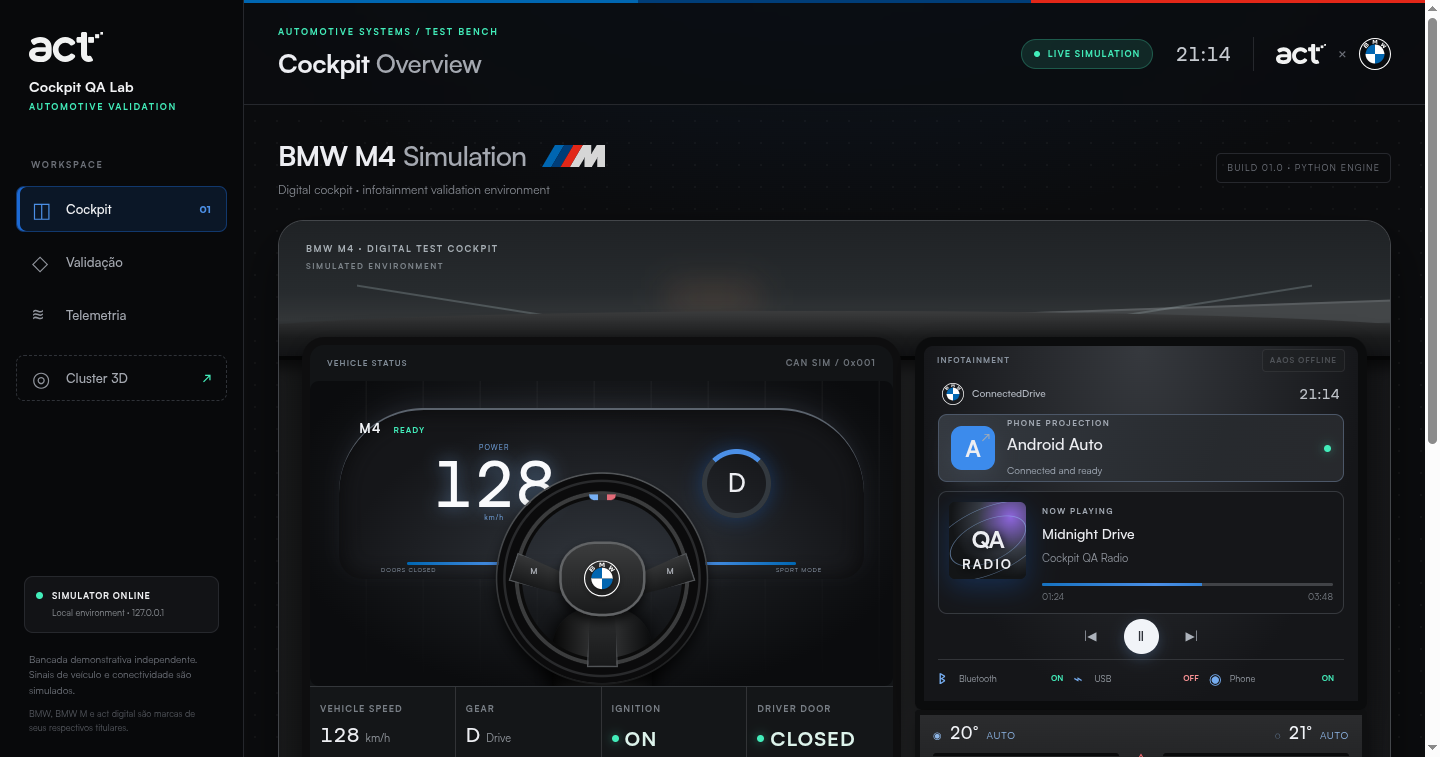
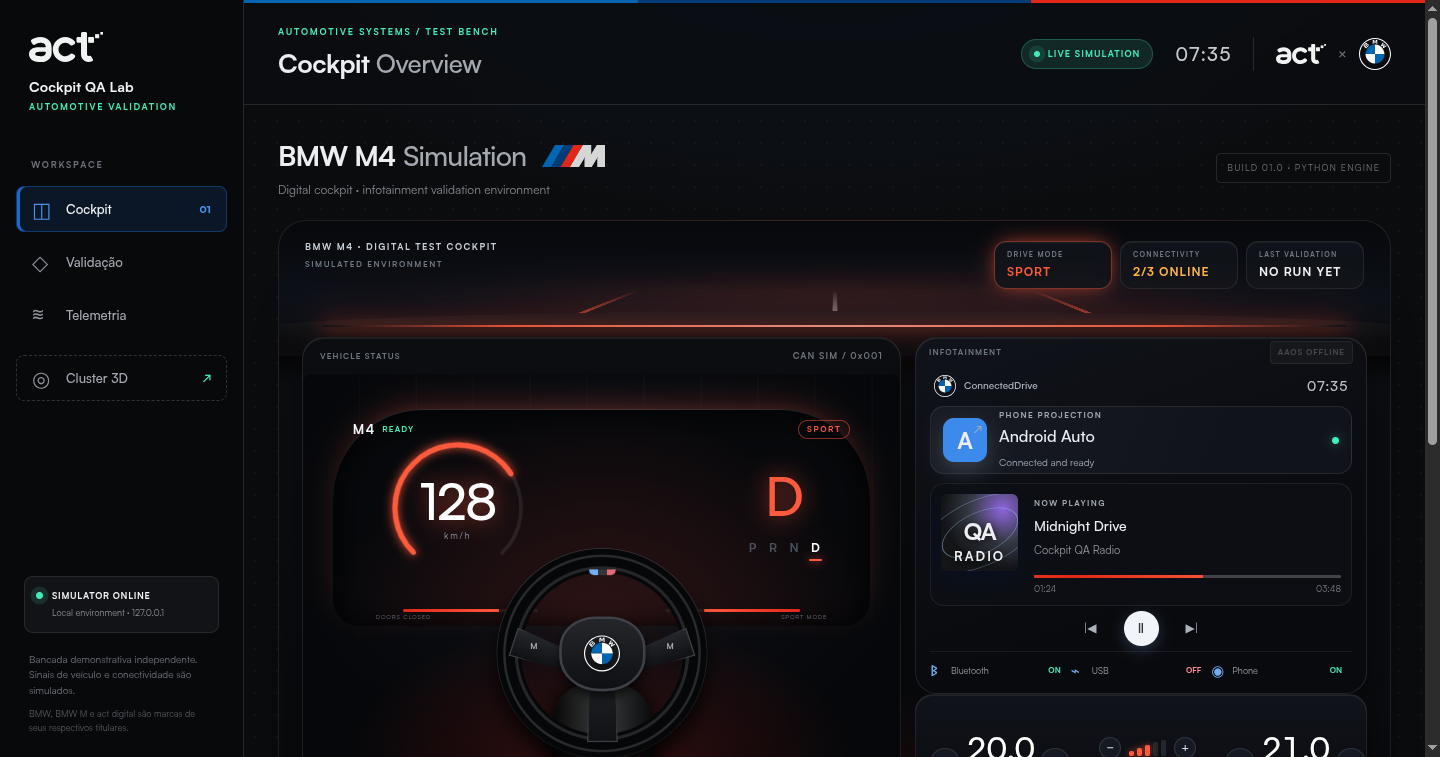
feat(web): curved-display cockpit with drive bar, speed arc, P R N D, climate and Comfort/Sport theme

diff --git a/web/cockpit.css b/web/cockpit.css
@@ -1,0 +1,154 @@
+/* Cockpit finish, BMW Curved Display inspired. Loaded last.
+   One accent drives the whole cabin: BMW blue in Comfort, M red in Sport (body.mode-sport,
+   set by app.js at 120 km/h, same thresholds as the Unity cluster). */
+
+@property --accent{syntax:'<color>';inherits:true;initial-value:#4b8fe6}
+@property --accent-deep{syntax:'<color>';inherits:true;initial-value:#1c69d4}
+
+body{--accent:#4b8fe6;--accent-deep:#1c69d4;transition:--accent .8s var(--ease-out),--accent-deep .8s var(--ease-out)}
+body.mode-sport{--accent:#ff5a3c;--accent-deep:#e22718}
+
+/* ---------- Cabin shell ---------- */
+.dashboard{border:1px solid #ffffff14;border-radius:28px 28px 18px 18px;
+  background:
+    radial-gradient(ellipse 70% 40% at 50% 100%,color-mix(in srgb,var(--accent-deep) 16%,transparent),transparent 70%),
+    linear-gradient(180deg,#0c0e12 0%,#08090c 100%);
+  box-shadow:inset 0 1px 0 #ffffff12,0 40px 80px -40px #000}
+.dashboard:before{background:linear-gradient(#16181d,#0a0b0e 70%);box-shadow:0 14px 20px #000000b0}
+.dashboard:after{background:linear-gradient(#111317,#060709);border-top-color:#ffffff10}
+
+/* Ambient light: a thin glowing line along the dash, like BMW's interior light bar. */
+.ambient-strip{position:absolute;z-index:0;left:4%;right:4%;top:104px;height:2px;border-radius:2px;pointer-events:none;
+  background:linear-gradient(90deg,transparent,var(--accent) 18%,color-mix(in srgb,var(--accent) 60%,#fff) 50%,var(--accent) 82%,transparent);
+  box-shadow:0 0 18px 2px color-mix(in srgb,var(--accent) 55%,transparent),0 0 46px 6px color-mix(in srgb,var(--accent-deep) 30%,transparent);
+  opacity:.9}
+
+/* ---------- Windshield: horizon, live road and the drive summary ---------- */
+.windshield{background:linear-gradient(180deg,#07080b 0%,#0c1018 55%,#0a0c10 100%);border-bottom:0}
+.windshield:before,.windshield:after{display:none}
+.drive-road{position:absolute;inset:0;overflow:hidden}
+.drive-horizon{position:absolute;left:10%;right:10%;top:52px;height:60px;border-radius:50%;
+  background:radial-gradient(ellipse at 50% 50%,color-mix(in srgb,var(--accent) 45%,transparent),transparent 70%);filter:blur(14px);opacity:.55}
+.drive-lanes{position:absolute;left:50%;top:70px;width:560px;height:220px;transform:translateX(-50%) perspective(180px) rotateX(66deg);transform-origin:50% 0;
+  -webkit-mask-image:linear-gradient(transparent,#000 35%);mask-image:linear-gradient(transparent,#000 35%);
+  background:
+    linear-gradient(90deg,transparent calc(50% - 2px),#ffffffb0 calc(50% - 2px) calc(50% + 2px),transparent calc(50% + 2px)) 0 var(--road,0)/100% 40px,
+    linear-gradient(90deg,transparent 14%,var(--accent) 14% 15%,transparent 15% 85%,var(--accent) 85% 86%,transparent 86%),
+    linear-gradient(90deg,transparent 14%,#0f131b 14% 86%,transparent 86%)}
+.drive-lanes{background-repeat:repeat-y,no-repeat,no-repeat}
+
+.drive-bar{position:absolute;left:0;right:0;top:0;height:86px;display:flex;align-items:flex-start;justify-content:space-between;gap:16px;padding:20px 26px 0}
+.windshield-label{position:static;color:#c9d0d8}
+.windshield-label span{color:#6f7782}
+.drive-chips{display:flex;gap:8px}
+.drive-chip{min-width:118px;padding:8px 12px;border:1px solid #ffffff14;border-radius:12px;
+  background:color-mix(in srgb,#11141a 78%,transparent);backdrop-filter:blur(10px);-webkit-backdrop-filter:blur(10px);box-shadow:inset 0 1px 0 #ffffff0d}
+.drive-chip small{display:block;font-size:7px;font-weight:700;letter-spacing:.18em;color:#6f7782}
+.drive-chip strong{display:block;margin-top:4px;font:700 12px 'Satoshi',sans-serif;letter-spacing:.08em;color:var(--text-1);transition:color .4s}
+.drive-chip-mode{border-color:color-mix(in srgb,var(--accent) 45%,transparent);box-shadow:inset 0 1px 0 #ffffff0d,0 0 22px -6px var(--accent)}
+.drive-chip-mode strong{color:var(--accent)}
+[data-tone="ok"]{color:var(--act-mint)!important}
+[data-tone="warn"]{color:#ffb547!important}
+[data-tone="fault"]{color:#ff5a4a!important}
+[data-tone="run"]{color:var(--bmw-blue-bright)!important}
+
+/* ---------- Displays: dark glass ---------- */
+.vehicle-panel,.infotainment-panel{border:1px solid #ffffff17;box-shadow:inset 0 1px 0 #ffffff14,0 18px 40px -12px #000000d0}
+.vehicle-panel{background:linear-gradient(180deg,#0b0d11,#07080b);border-radius:22px}
+.infotainment-panel{background:linear-gradient(160deg,#10131a 0%,#090a0e 70%);border-radius:22px}
+.vehicle-panel .panel-top,.infotainment-panel .panel-top{color:#6f7782}
+.vehicle-hero{background:
+    radial-gradient(ellipse 60% 55% at 50% 100%,color-mix(in srgb,var(--accent-deep) 22%,transparent),transparent 70%),
+    radial-gradient(ellipse 55% 62% at 50% 40%,#151a22 0%,#090b0f 60%,#06070a 100%)}
+.vehicle-hero:before{opacity:.12}
+
+/* ---------- Instrument cluster ---------- */
+.driver-cluster{border-top:1px solid #ffffff1f;border-radius:90px 90px 26px 26px;
+  background:radial-gradient(ellipse at 50% 110%,color-mix(in srgb,var(--accent-deep) 18%,#0d1015),#07080b 72%);
+  box-shadow:inset 0 0 30px #000,0 -10px 30px -12px color-mix(in srgb,var(--accent) 40%,transparent)}
+.cluster-head{display:flex;align-items:center}
+.cluster-mode{margin-left:auto;font:700 8px 'Satoshi',sans-serif;font-style:normal;letter-spacing:.2em;color:var(--accent);
+  padding:3px 8px;border:1px solid color-mix(in srgb,var(--accent) 50%,transparent);border-radius:20px}
+.cluster-readouts{justify-content:space-between;padding:0 6%;margin-top:-6px}
+
+.speedo{position:relative;width:150px;height:150px}
+.speed-arc{position:absolute;inset:0;width:100%;height:100%;transform:rotate(135deg);overflow:visible}
+.speed-arc circle{fill:none;stroke-linecap:round}
+.arc-track{stroke:#ffffff14;stroke-width:5;stroke-dasharray:395.8 527.8}
+.arc-fill{stroke:var(--accent);stroke-width:7;stroke-dasharray:calc(var(--speed) * 395.8px) 527.8px;
+  filter:drop-shadow(0 0 6px var(--accent))}
+.speedo-value{position:absolute;inset:0;display:flex;flex-direction:column;align-items:center;justify-content:center}
+.speedo-value strong{font:500 52px 'Satoshi',sans-serif!important;line-height:1!important;letter-spacing:-.03em;color:#fff!important;
+  text-shadow:0 0 22px color-mix(in srgb,var(--accent) 60%,transparent)!important}
+.speedo-value small{margin-top:4px;font-size:9px!important;letter-spacing:.2em!important;color:#8a93a3!important}
+
+.gearbox{display:flex;flex-direction:column;align-items:center;gap:8px}
+.cluster-gear{width:auto!important;height:auto!important;border:0!important;box-shadow:none!important;border-radius:0;
+  font:600 54px 'Satoshi',sans-serif!important;line-height:1;color:var(--accent)!important;
+  text-shadow:0 0 22px color-mix(in srgb,var(--accent) 70%,transparent)}
+.prnd{display:flex;gap:12px}
+.prnd span{font:700 12px 'Satoshi',sans-serif;letter-spacing:.04em;color:#4a505b;position:relative;transition:color .3s}
+.prnd span.active{color:#fff}
+.prnd span.active:after{content:'';position:absolute;left:-2px;right:-2px;bottom:-5px;height:2px;border-radius:2px;background:var(--accent);box-shadow:0 0 8px var(--accent)}
+.cluster-bars span{background:linear-gradient(90deg,var(--accent-deep),var(--accent)) 0/calc(var(--speed)*100%) 100% no-repeat,#ffffff10!important}
+.cluster-foot{color:#5f6672}
+.cluster-head span{color:var(--act-mint)}
+
+/* Steering wheel: darker, with the M-coloured top marker kept. */
+.steering-wheel{border-color:#060708;box-shadow:inset 0 0 0 4px #24262a,inset 0 0 0 8px #060708,0 16px 26px #000000e0,0 0 0 1px #3a3d42}
+.wheel-hub{background:linear-gradient(#24262b,#0f1013);border-color:#3e4148}
+.wheel-spoke{background:linear-gradient(#24262b,#101114);border-color:#3a3d42}
+
+/* ---------- Status row under the cluster ---------- */
+.vehicle-metrics{background:#08090c!important;border-top:1px solid #ffffff10!important}
+.vehicle-metrics .metric{border-color:#ffffff0d!important}
+.metric small{color:#5f6672}
+
+/* ---------- Infotainment cards ---------- */
+.projection-card{border-color:#ffffff17;border-radius:14px;background:linear-gradient(110deg,#171b23,#10131a 70%)}
+.music-card{border-color:#ffffff12;border-radius:14px;background:#0c0e13}
+.connection-row{border-top-color:#ffffff12}
+
+/* ---------- Climate console ---------- */
+.dashboard{grid-template-rows:auto 158px}
+.center-console{display:flex;flex-direction:column;justify-content:space-between;padding:12px 14px 10px;border:1px solid #ffffff14;border-radius:18px;
+  background:linear-gradient(180deg,#10131a,#08090c);box-shadow:inset 0 1px 0 #ffffff12,0 14px 30px -10px #000}
+.climate{display:grid;grid-template-columns:1fr auto 1fr;align-items:center;gap:10px}
+.zone{display:flex;align-items:center;justify-content:space-between;gap:6px}
+.zone-temp{text-align:center;line-height:1}
+.zone-temp strong{display:inline-block;font:500 32px 'Satoshi',sans-serif;letter-spacing:-.03em;color:#fff;font-variant-numeric:tabular-nums}
+.zone-temp sup{font-size:11px;color:#8a93a3;margin-left:2px;vertical-align:top}
+.zone-temp small{display:block;margin-top:6px;font-size:7px;font-weight:700;letter-spacing:.2em;color:#5f6672}
+.clim-btn{width:30px;height:30px;flex:none;border-radius:50%;border:1px solid #ffffff1c;background:#151922;color:#d6dbe3;font:500 16px 'Satoshi',sans-serif;line-height:1;cursor:pointer;
+  transition:background .2s,border-color .2s,transform .15s var(--ease-out),box-shadow .2s}
+.clim-btn:hover{border-color:var(--accent);box-shadow:0 0 12px -2px var(--accent)}
+.clim-btn:active{transform:scale(.92)}
+.clim-btn.small{width:22px;height:22px;font-size:12px}
+.climate-center{display:flex;flex-direction:column;align-items:center;gap:9px}
+.fan{display:flex;align-items:center;gap:8px}
+.fan-bars{display:flex;align-items:flex-end;gap:3px;height:16px}
+.fan-bars i{width:5px;border-radius:2px;background:#ffffff18;transition:background .25s,box-shadow .25s}
+.fan-bars i:nth-child(1){height:5px}.fan-bars i:nth-child(2){height:8px}.fan-bars i:nth-child(3){height:11px}.fan-bars i:nth-child(4){height:14px}.fan-bars i:nth-child(5){height:16px}
+.fan-bars i.on{background:var(--accent);box-shadow:0 0 6px color-mix(in srgb,var(--accent) 70%,transparent)}
+.climate-toggles{display:flex;gap:5px}
+.clim-toggle{padding:4px 8px;border-radius:8px;border:1px solid #ffffff17;background:transparent;color:#6f7782;font:700 8px 'Satoshi',sans-serif;letter-spacing:.14em;cursor:pointer;transition:color .2s,border-color .2s,background .2s}
+.clim-toggle.on{color:#fff;border-color:color-mix(in srgb,var(--accent) 60%,transparent);background:color-mix(in srgb,var(--accent) 16%,transparent)}
+.console-strip{display:flex;align-items:center;justify-content:space-between;padding-top:8px;border-top:1px solid #ffffff0d;font-size:7px;font-weight:700;letter-spacing:.2em;color:#4a505b}
+.console-strip .hazard{font-size:13px;color:#e2271899;letter-spacing:0}
+
+/* ---------- Gear selector and slider follow the accent ---------- */
+.gear-selector button.active{background:var(--accent-deep);border-color:var(--accent-deep);box-shadow:0 0 16px color-mix(in srgb,var(--accent) 45%,transparent)}
+.speed-control input[type=range]{background:linear-gradient(90deg,var(--accent-deep),var(--accent)) 0/var(--fill,0%) 100% no-repeat,#26282d}
+
+@media(max-width:1180px){.drive-chip{min-width:96px}.drive-chips .drive-chip:nth-child(2){display:none}}
+@media(max-width:900px){.dashboard{grid-template-rows:auto auto auto}.center-console{height:auto}}
+@media(max-width:700px){.drive-chips{display:none}.speedo{width:120px;height:120px}.speedo-value strong{font-size:40px!important}.cluster-gear{font-size:40px!important}}
+@media(max-width:540px){.zone-temp strong{font-size:24px}.clim-btn{width:26px;height:26px}}
+
+/* Fill the panels' full height instead of leaving a gap under their content. */
+.vehicle-panel{display:flex;flex-direction:column}
+.vehicle-panel .vehicle-hero{flex:1;min-height:305px}
+.climate{flex:1}
+/* A zero-length round-capped stroke still draws a dot: hide the fill at 0 km/h. */
+.arc-fill{opacity:clamp(0,calc(var(--speed) * 60),1)}
+.music-card.playing .progress-track span{background:linear-gradient(90deg,var(--accent-deep),var(--accent),var(--accent-deep)) 0 0/200% 100%}

diff --git a/web/index.html b/web/index.html
@@ -12,6 +12,7 @@
   <link rel="stylesheet" href="/android.css">
   <link rel="stylesheet" href="/brand.css">
   <link rel="stylesheet" href="/motion.css">
+  <link rel="stylesheet" href="/cockpit.css">
 </head>
 <body>
   <div class="app-shell">
@@ -47,7 +48,8 @@
       <section class="page active" id="cockpit-page">
         <div class="intro-row"><div><h2>BMW M4 <em>Simulation</em><img class="title-m" src="/assets/logos/bmw-m.svg" alt="BMW M"></h2><p>Digital cockpit · infotainment validation environment</p></div><span class="build-tag">BUILD 01.0 · PYTHON ENGINE</span></div>
         <div class="dashboard">
-          <div class="windshield"><div class="windshield-sky"></div><div class="road road-left"></div><div class="road road-right"></div><div class="windshield-label">BMW M4 · DIGITAL TEST COCKPIT <span>SIMULATED ENVIRONMENT</span></div></div>
+          <div class="windshield"><div class="drive-road" aria-hidden="true"><span class="drive-horizon"></span><span class="drive-lanes"></span></div><div class="drive-bar"><div class="windshield-label">BMW M4 · DIGITAL TEST COCKPIT <span>SIMULATED ENVIRONMENT</span></div><div class="drive-chips"><div class="drive-chip drive-chip-mode"><small>DRIVE MODE</small><strong id="drive-mode">COMFORT</strong></div><div class="drive-chip"><small>CONNECTIVITY</small><strong id="drive-links">3/3 ONLINE</strong></div><div class="drive-chip"><small>LAST VALIDATION</small><strong id="drive-test">NO RUN YET</strong></div></div></div></div>
+          <div class="ambient-strip" aria-hidden="true"></div>
           <section class="vehicle-panel">
             <div class="panel-top"><span>VEHICLE STATUS</span><span class="signal-id">CAN SIM / 0x001</span></div>
             <div class="vehicle-hero">
@@ -75,7 +77,7 @@
                 <circle cx="657" cy="296" r="50" fill="#0b0b0c" stroke="#3a3b3e" stroke-width="7"/><circle cx="657" cy="296" r="35" fill="#8c8f93" stroke="#18191b" stroke-width="6"/><circle cx="657" cy="296" r="22" fill="#232529"/><circle cx="657" cy="296" r="11" fill="#b3b9bf"/>
                 <path d="M265 261 V330 M230 296 H300 M657 261 V330 M622 296 H692" stroke="#2b2e31" stroke-width="7" opacity=".7"/>
               </svg>
-              <div class="driver-cluster"><div class="cluster-head">M4 <span>READY</span></div><div class="cluster-readouts"><div><small>POWER</small><strong id="cluster-speed">0</strong><small>km/h</small></div><div class="cluster-gear" id="cluster-gear">P</div></div><div class="cluster-bars"><span></span><span></span></div><div class="cluster-foot"><span id="cluster-door">DOORS CLOSED</span><span>SPORT MODE</span></div></div>
+              <div class="driver-cluster"><div class="cluster-head">M4 <span>READY</span><em class="cluster-mode" id="cluster-mode">COMFORT</em></div><div class="cluster-readouts"><div class="speedo"><svg class="speed-arc" viewBox="0 0 200 200" aria-hidden="true"><circle class="arc-track" cx="100" cy="100" r="84"/><circle class="arc-fill" cx="100" cy="100" r="84"/></svg><div class="speedo-value"><strong id="cluster-speed">0</strong><small>km/h</small></div></div><div class="gearbox"><div class="cluster-gear" id="cluster-gear">P</div><div class="prnd" id="prnd-row" aria-hidden="true"><span data-g="P">P</span><span data-g="R">R</span><span data-g="N">N</span><span data-g="D">D</span></div></div></div><div class="cluster-bars"><span></span><span></span></div><div class="cluster-foot"><span id="cluster-door">DOORS CLOSED</span><span id="cluster-foot-mode">COMFORT MODE</span></div></div>
               <div class="steering-column"></div><div class="steering-wheel"><div class="wheel-inner"><div class="wheel-spoke spoke-left"></div><div class="wheel-spoke spoke-right"></div><div class="wheel-spoke spoke-bottom"></div><div class="wheel-hub"><img class="wheel-logo" src="/assets/logos/bmw.svg" alt=""></div><span class="wheel-m wheel-m-left">M</span><span class="wheel-m wheel-m-right">M</span></div></div>
               <div class="hero-caption"><span class="hero-line"></span><span>THE DRIVE, UNDER TEST.</span></div>
             </div>
@@ -96,7 +98,7 @@
             <div class="player-controls"><button aria-label="Faixa anterior" title="Faixa anterior">|◀</button><button class="play-button" id="play-button" data-event="play" aria-label="Reproduzir">▶</button><button aria-label="Próxima faixa" title="Próxima faixa">▶|</button></div>
             <div class="connection-row"><div><span class="connection-icon">ᛒ</span><span>Bluetooth</span><b id="bt-status">ON</b></div><div><span class="connection-icon">⌁</span><span>USB</span><b id="usb-status">OFF</b></div><div><span class="connection-icon">◉</span><span>Phone</span><b id="phone-status">ON</b></div></div>
           </section>
-          <div class="center-console"><div class="climate-row"><span>◉ <b>20°</b> AUTO</span><span>◌ <b>21°</b> AUTO</span></div><div class="console-hardware"><div class="vent vent-left"></div><div class="hazard">△</div><div class="vent vent-right"></div></div><div class="console-lower"><div class="shifter"><span>P</span><div class="shifter-handle"></div><small>M/S</small></div><div class="dial"><span>MENU</span><div class="dial-knob">◎</div><small>MEDIA&nbsp; · &nbsp;NAV</small></div></div></div>
+          <div class="center-console"><div class="climate"><div class="zone"><button class="clim-btn" data-climate="driver:-1" aria-label="Diminuir temperatura (driver)">−</button><div class="zone-temp"><strong id="temp-driver">20.0</strong><sup>°C</sup><small>DRIVER</small></div><button class="clim-btn" data-climate="driver:1" aria-label="Aumentar temperatura (driver)">+</button></div><div class="climate-center"><div class="fan"><button class="clim-btn small" data-climate="fan:-1" aria-label="Diminuir ventilação">−</button><div class="fan-bars" id="fan-bars" aria-label="Ventilação"><i></i><i></i><i></i><i></i><i></i></div><button class="clim-btn small" data-climate="fan:1" aria-label="Aumentar ventilação">+</button></div><div class="climate-toggles"><button class="clim-toggle" data-climate="auto" id="clim-auto">AUTO</button><button class="clim-toggle" data-climate="ac" id="clim-ac">A/C</button><button class="clim-toggle" data-climate="sync" id="clim-sync">SYNC</button></div></div><div class="zone"><button class="clim-btn" data-climate="passenger:-1" aria-label="Diminuir temperatura (passenger)">−</button><div class="zone-temp"><strong id="temp-passenger">21.0</strong><sup>°C</sup><small>PASSENGER</small></div><button class="clim-btn" data-climate="passenger:1" aria-label="Aumentar temperatura (passenger)">+</button></div></div><div class="console-strip"><span>CLIMATE · LOCAL UI</span><span class="hazard" aria-hidden="true">△</span><span>iDRIVE</span></div></div>
         </div>
 
         <div class="bottom-grid">

diff --git a/web/app.js b/web/app.js
@@ -104,6 +104,8 @@ function renderState(s) {
   $('#cluster-gear').textContent = s.gear;
   $('#cluster-gear').dataset.currentGear = s.gear;
   if (previous && previous.gear !== s.gear) { replay($('#cluster-gear'), 'pop'); replay($('#gear-value'), 'pop'); }
+  document.querySelectorAll('#prnd-row [data-g]').forEach((g) => g.classList.toggle('active', g.dataset.g === s.gear));
+  renderDriveMode(s);
   $('#gear-text').textContent = {R:'Reverse', N:'Neutral', D:'Drive'}[s.gear] || 'Park';
   document.querySelectorAll('[data-gear]').forEach((b) => b.classList.toggle('active', b.dataset.gear === s.gear));
   $('#ignition-value').textContent = s.ignition ? 'ON' : 'OFF';
@@ -136,6 +138,22 @@ function renderState(s) {
     ['FAULT INJECTION',s.fault||'OFF'],['EVENT COUNT',s.events.length]
   ];
   setHtml($('#signal-list'), signals.map(([label,value]) => `<div class="signal ${signalTone(label,value)}"><small>${esc(label)}</small><strong>${esc(value)}</strong></div>`).join(''));
+}
+
+// Comfort / Sport, mirroring the Unity cluster: Sport engages at 120 km/h and releases
+// below 110 km/h (hysteresis, so the theme does not flicker around the threshold).
+const SPORT_ON = 120, SPORT_OFF = 110;
+let sport = false;
+function renderDriveMode(s) {
+  sport = sport ? s.speed_kmh >= SPORT_OFF : s.speed_kmh >= SPORT_ON;
+  document.body.classList.toggle('mode-sport', sport);
+  const mode = sport ? 'SPORT' : 'COMFORT';
+  $('#drive-mode').textContent = mode;
+  $('#cluster-mode').textContent = mode;
+  $('#cluster-foot-mode').textContent = `${mode} MODE`;
+  const links = [s.bluetooth, s.usb_connected, s.phone_connected].filter(Boolean).length;
+  $('#drive-links').textContent = `${links}/3 ONLINE`;
+  $('#drive-links').dataset.tone = links === 3 ? 'ok' : links ? 'warn' : 'off';
 }
 
 // Colour-codes telemetry values so state reads at a glance: ok / warn / fault / off.
@@ -175,6 +193,9 @@ function renderReport(r) {
   banner.className = `run-banner ${r.status}`;
   const progress = r.status === 'running' ? '<span class="run-progress" aria-hidden="true"></span>' : '';
   if (setHtml(banner, `<span class="run-icon">${icon[r.status]||'◇'}</span><div><strong>${labels[r.status]||esc(r.status)}</strong><small>${esc(descriptions[r.status]||'')}</small></div>${progress}`) && previous && previous !== r.status) replay(banner, 'pop');
+  const testLabel = {idle:'NO RUN YET',running:'RUNNING…',passed:'PASSED',failed:'DEFECT FOUND',error:'ERROR'};
+  $('#drive-test').textContent = testLabel[r.status] || String(r.status).toUpperCase();
+  $('#drive-test').dataset.tone = {passed:'ok',failed:'fault',error:'fault',running:'run'}[r.status] || 'off';
   const steps = r.steps || [];
   const container = $('#test-steps');
   const already = Number(container.dataset.count || 0);
@@ -290,6 +311,41 @@ async function refresh() {
     renderState(s); renderReport(r);
   } catch { setOnline(false); }
 }
+// ---------- climate (local UI only: the simulator has no HVAC signals) ----------
+
+const climate = {driver:20, passenger:21, fan:3, auto:true, ac:true, sync:false};
+function renderClimate() {
+  $('#temp-driver').textContent = climate.driver.toFixed(1);
+  $('#temp-passenger').textContent = climate.passenger.toFixed(1);
+  document.querySelectorAll('#fan-bars i').forEach((bar, i) => bar.classList.toggle('on', i < climate.fan));
+  for (const key of ['auto','ac','sync']) $(`#clim-${key}`).classList.toggle('on', climate[key]);
+}
+document.querySelectorAll('[data-climate]').forEach((button) => button.addEventListener('click', () => {
+  const [key, step] = button.dataset.climate.split(':');
+  if (step === undefined) climate[key] = !climate[key];
+  else if (key === 'fan') { climate.fan = Math.max(1, Math.min(5, climate.fan + Number(step))); climate.auto = false; }
+  else {
+    climate[key] = Math.max(16, Math.min(28, climate[key] + Number(step) * 0.5));
+    if (climate.sync) climate[key === 'driver' ? 'passenger' : 'driver'] = climate[key];
+    replay($(`#temp-${key}`), 'pop');
+  }
+  if (key === 'sync' && climate.sync) climate.passenger = climate.driver;
+  renderClimate();
+}));
+renderClimate();
+
+// ---------- road in the windshield scrolls with the live speed ----------
+
+let roadOffset = 0, roadLast = performance.now();
+function roadFrame(now) {
+  const dt = Math.min(0.1, (now - roadLast) / 1000);
+  roadLast = now;
+  roadOffset = (roadOffset + (state ? state.speed_kmh : 0) * dt * 1.6) % 4000;
+  document.documentElement.style.setProperty('--road', `${roadOffset.toFixed(1)}px`);
+  requestAnimationFrame(roadFrame);
+}
+if (!reducedMotion) requestAnimationFrame(roadFrame);
+
 updateClock(); setInterval(updateClock,15000); refresh(); setInterval(refresh,450);
 refreshAndroid(); setInterval(refreshAndroid,3000);
 setInterval(() => { if (aaosActive && androidOnline) $('#android-screen').src = `/api/android/screen?t=${Date.now()}`; },1500);

diff --git a/README.md b/README.md
@@ -26,6 +26,7 @@ A Python state machine drives a visible cockpit, connectivity events, simulated 
 - **5 validation scenarios** — run from the UI, each step reports `expected` vs `actual` state and exports a JSON report.
 - **Reproducible defect injection** — flip one switch to make a test fail on purpose and walk through root cause analysis.
 - **Real Android Automotive** — the official AAOS emulator can be streamed and touched inside the infotainment screen; speed is injected into VHAL.
+- **Curved-display cockpit** — web cluster with speed arc and P R N D selector, a live drive bar (drive mode, connectivity, last validation), a road that scrolls with speed and dual-zone climate controls; the whole cabin switches from Comfort blue to Sport red above 120 km/h, in sync with the 3D cluster.
 - **3D instrument cluster** — Unity WebGL cluster that follows the simulator live (gear, speed, media, connectivity), with a road that scrolls with speed, a speed arc, a P R N D selector, a distant skyline and a BMW-inspired Comfort (blue) / Sport (red, above 120 km/h) theme. [Open it online](https://cockpit-qa-lab-ia85.onrender.com/unity/).
 - **CI** — unit, API, contract and Selenium browser tests on GitHub Actions.
 - **Documented decisions** — 11 [ADRs](docs/adr/README.md) explain the trade-offs behind the design.
@@ -34,7 +35,7 @@ A Python state machine drives a visible cockpit, connectivity events, simulated 
 
 <table>
   <tr>
-    <td width="50%"><img src="docs/images/cockpit-driving.png" alt="Cockpit at 128 km/h in Drive"><br><sub><b>Driving</b> — speed and gear streamed from the simulator to the cluster.</sub></td>
+    <td width="50%"><img src="docs/images/cockpit-driving.png" alt="Cockpit at 128 km/h in Drive, Sport mode"><br><sub><b>Driving</b> — speed and gear streamed from the simulator; Sport mode turns the cabin red above 120 km/h.</sub></td>
     <td width="50%"><img src="docs/images/cluster-3d.png" alt="Unity 3D instrument cluster in Sport mode at 170 km/h"><br><sub><b>Cluster 3D</b> — Unity WebGL cluster; switches from Comfort blue to Sport red above 120 km/h.</sub></td>
   </tr>
   <tr>
